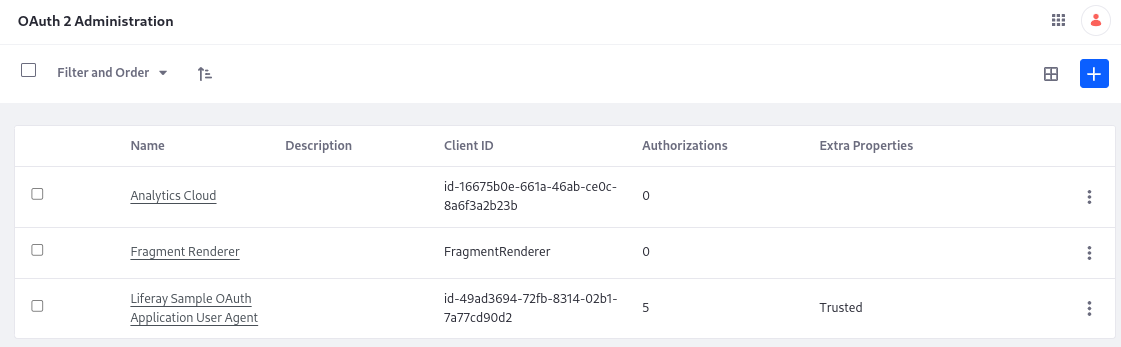
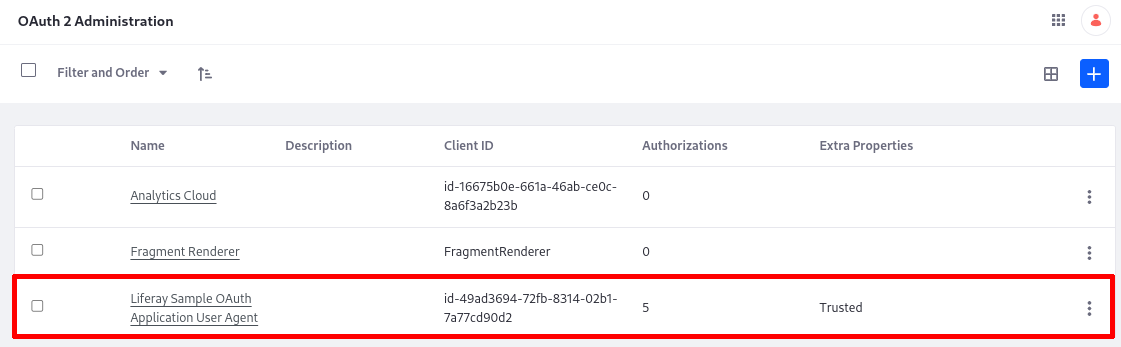
LRDOCS-11896 initial expert feedback and editing

Changed region(s): [[0.0, 0.7781, 0.9991, 0.9798]]

diff --git a/docs/dxp/latest/en/building-applications/client-extensions/microservice-client-extensions/tutorials/using-a-microservice-client-extension.md b/docs/dxp/latest/en/building-applications/client-extensions/microservice-client-extensions/tutorials/using-a-microservice-client-extension.md
@@ -3,15 +3,13 @@ uuid: 7ba1005d-5491-43f8-9067-5e63b241fe63
 ---
 # Using a Microservice Client Extension
 
-Liferay calls to the back-end service, passing along the JWT token generated by the OAuth Application User Agent using the protected routes defined in the microservice. How can it do so? Because we've deployed an OAuth Application User Agent client extension.
+A microservice client extension relies on OAuth 2 for communication with Liferay. In this paradigm, the microservice is the resource server and Liferay is the authorization server. See [Using OAuth 2](../../../../headless-delivery/using-oauth2.md) for more information. The sample project demonstrated here displays the payload from a protected endpoint in the resource server (microservice) and displays it in a front-end project based on a [custom element](../../front-end-client-extensions/understanding-custom-element-and-iframe-client-extensions.md) client extension. Two client extension and a microservice running as a [Spring Boot application](https://docs.spring.io/spring-boot/docs/current/reference/html/getting-started.html#getting-started) are used in this example:
 
-A microservice client extension relies OAuth 2 for communication with Liferay. In this paradigm, the microservice is the resource server and Liferay is the authorization server. See [Using OAuth 2](../../../../headless-delivery/using-oauth2.md) for more information. The sample project demonstrated here displays the payload from a protected endpoint in the resource server (microservice) and displays it in a front-end project based on a [custom element](../../front-end-client-extensions/understanding-custom-element-and-iframe-client-extensions.md) client extension. Two client extension and a microservice running as a [Spring Boot application](https://docs.spring.io/spring-boot/docs/current/reference/html/getting-started.html#getting-started) are used in this example:
-
-| Deployable or Runnable Code | Type | Description | Workspace Sample |
-| :--- | :--- | :--- | :--- |
-| Deploy the Liferay Sample OAuth Application User Agent | Client extension: [`oAuthApplicationUserAgent`](../../configuration-client-extensions/oauth-user-agent-yaml-configuration-reference.md) | Configures the authorization channel so the logged in user sees the microservice's payload in the custom element. | liferay-sample-etc-spring-boot |
-| Run the Spring Boot microservice application | Protected endpoint: `/dad/joke` | A protected endpoint to the resource server. It takes a Jwt token and returns a payload. | liferay-sample-etc-spring-boot |
-| Deploy the Liferay Sample Custom Element 2 | Client extension: [`customElement`](../../front-end-client-extensions/custom-element-yaml-configuration-reference.md) | Defines a custom element and requests the payload from the resource server, through its OAuth 2 client code. | liferay-sample-custom-element-2 |
+| Deployable or Runnable Code                            | Type                                                                                                                                     | Description                                                                                                       | Workspace Sample |
+| :----------------------------------------------------- | :--------------------------------------------------------------------------------------------------------------------------------------- | :---------------------------------------------------------------------------------------------------------------- | :--- |
+| Deploy the Liferay Sample OAuth Application User Agent | Client extension: [`oAuthApplicationUserAgent`](../../configuration-client-extensions/oauth-user-agent-yaml-configuration-reference.md)  | Configures the authorization channel so the logged in user sees the microservice's payload in the custom element. | liferay-sample-etc-spring-boot  |
+| Run the Spring Boot microservice application           | Protected endpoint: `/dad/joke`                                                                                                          | A protected endpoint to the resource server. It takes a Jwt token and returns a payload.                          | liferay-sample-etc-spring-boot  |
+| Deploy the Liferay Sample Custom Element 2             | Client extension: [`customElement`](../../front-end-client-extensions/custom-element-yaml-configuration-reference.md)                    | Defines a custom element and requests the payload from the resource server, through its OAuth 2 client code.      | liferay-sample-custom-element-2 |
 
 An authenticated user loads a page with the client application on it (the custom element). The custom element requests an authorization code, which is made available by the communication channel configured by our user agent extension (essentially Liferay is the authorization server). Liferay returns the code, then the client asks for the access token via back channel request.
 
@@ -46,13 +44,15 @@ To start developing client extensions,
    unzip com.liferay.sample.workspace-latest.zip
    ```
 
-Now you have the tools to start the microservice, deploy the client extension(s) to Liferay, and understand how they communicate.
+Now you have the tools to start the microservice and deploy the client extension(s) to Liferay. 
 
-## Examine the Project's Client Extensions
+```{include} /_snippets/run-liferay-portal.md
+```
 
-The `client-extensions/liferay-sample-etc-spring-boot/client-extension.yaml` file defines the client extension project in the sample workspace:
 
-<!-- problem: the dad-jokes one isn't here, because it's a microservice we're accessing, not a client extension itself-->
+## Examine the Microservice Project's Client Extensions
+
+The `client-extensions/liferay-sample-etc-spring-boot/client-extension.yaml` file defines the microservice client extension project in the sample workspace:
 
 ```yaml
 assemble:
@@ -100,22 +100,62 @@ liferay-sample-oauth-application-user-agent:
     type: oAuthApplicationUserAgent
 ```
 
-<!-- the yaml config reference for oAuthApplicationUserAgent lists description, homePageURL, mainDomain, name, provacyPolicyURL, and scopes as "specific to OAuth user agent client extensions -->
-
 The external application/microservice is created with the `bootJar` command.
+
 <!--There are some confusing things about this. You have to deploy this to Liferay, but you have to do it by running a weird command at the workspace root, gw :client-extensions:liferay-sample-etc-spring-boot:deploy -Ddeploy.docker.container.id=lrdev. The deploy command isn't even available for the client extension (../../gradlew tasks). Also, I want to talk about bootJar and have the reader run it, but in reality we need bootRun, parth of the liferay gradle plugin.-->
 
-The most important part of the `client-extension.yaml` is in the `liferay-sample-oauth-application-user-agent` definition. To see what this does when deployed in Liferay, visit the Control Panel and go to OAuth2 Administration.
-<!-- this isn't deployed yet-->
-![The Liferay Sample OAuth Application User Agent is added when you deploy the client extension.](./using-a-microservice-client-extension/images/01.png)
+The most important part of the `client-extension.yaml` is in the `liferay-sample-oauth-application-user-agent` definition. This sets up Liferay as the authorization server, so that the front-end client extension you deploy next can call the resource server's secure endpoint and display its payload.
 
-The Liferay Sample OAuth Application User Agent provides the [OAuth2 authorization](../../../../headless-delivery/using-oauth2.md) needed so that Liferay can trust the Spring Boot application. Nowhere in the client extension is the client ID or secret needed for authorization. This is because, due to its omission, the [Client Authentication Method] is set to `none`. All that is needed for Liferay to authorize the application in this case is declaring the external reference code in the `application-default.properties`:
+## Examine the Custom Element Project's Client Extensions
+
+The `client-extensions/liferay-sample-custom-element-2/client-extension.yaml` file defines the microservice client extension project in the sample workspace:
+
+```yaml
+assemble:
+    - from: build/static
+      into: static
+liferay-sample-custom-element-2:
+    cssURLs:
+        - css/main.*.css
+    friendlyURLMapping: liferay-sample-custom-element-2
+    htmlElementName: liferay-sample-custom-element-2
+    instanceable: false
+    name: Liferay Sample Custom Element 2
+    portletCategoryName: category.client-extensions
+    type: customElement
+    urls:
+        - js/main.*.js
+    useESM: true
+```
+
+<!--This custom element isn't the main point but I need to briefly describe it anyway -->
+
+## Deploy the OAuth Application User Agent Client Extension
+
+1. Go to the root of the sample workspace.
+
+1. Run
+
+   ```bash
+   ./gradlew :client-extensions:liferay-sample-etc-spring-boot:deploy -Ddeploy.docker.container.id=$(docker ps -lq)
+   ```
+
+1. In Liferay's log, confirm that the client extension deployed and started:
+
+   ```bash
+   STARTED liferay-sample-etc-spring-boot_1.0.0 [1588]
+   ```
+
+1. Verify that the OAuth Application User Agent was added to Liferay. Go to _Control Panel_ &rarr; _OAuth2 Administration_.
+
+   ![The Liferay Sample OAuth Application User Agent is added when you deploy the client extension.](./using-a-microservice-client-extension/images/01.png)
+
+The Liferay Sample OAuth Application User Agent provides the [OAuth2 authorization](../../../../headless-delivery/using-oauth2.md) needed so that Liferay can access the Spring Boot application's data through its protected endpoint. Nowhere in the client extension is the client ID or secret needed for authorization. This is because, due to its omission, the [Client Authentication Method] is set to `none`. All that is needed for Liferay to authorize the application in this case is declaring the external reference code in the `application-default.properties`:
 <!-- Is this actually true? Should we instruct what you'd do to make it more super-secure?-->
 
 ```properties
 liferay.oauth.application.external.reference.codes=liferay-sample-oauth-application-user-agent
 ```
-
 
 ## Start the Microservice
 
@@ -135,7 +175,7 @@ The Spring Boot application starts and prints messages in the log:
 
 ## Deploy the Custom Element Client Extension
 
-The microservice is running and it's authorized to consume in Liferay. This example uses a [Custom Element client extension](../../front-end-client-extensions/understanding-custom-element-and-iframe-client-extensions.md) to display the data generated by the microservice. To deploy it,
+The microservice is running, and the authorization channel is configured in Liferay. This example uses a [Custom Element client extension](../../front-end-client-extensions/understanding-custom-element-and-iframe-client-extensions.md) to display the data generated by the microservice. To deploy it,
 
 1. Go to the `client-extensions/liferay-sample-custom-element-2` folder.
 1. Run 
@@ -145,6 +185,10 @@ The microservice is running and it's authorized to consume in Liferay. This exam
    ```
 
 ## Display Dad Jokes on a Page
+
+Add the Custom Element 2 widget to a page in your running Liferay. When you publish the page, dad jokes are displayed in the widget:
+
+![Custom Element 2 displays a bad joke each time the page is loaded.](./using-a-microservice-client-extension/images/02.png)
 
 ## Additional Details
 
